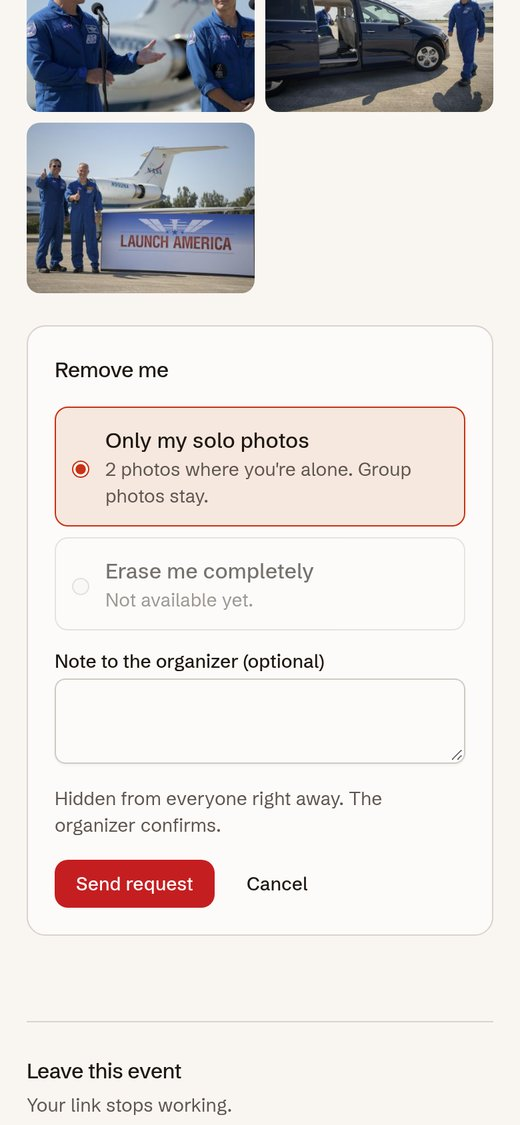
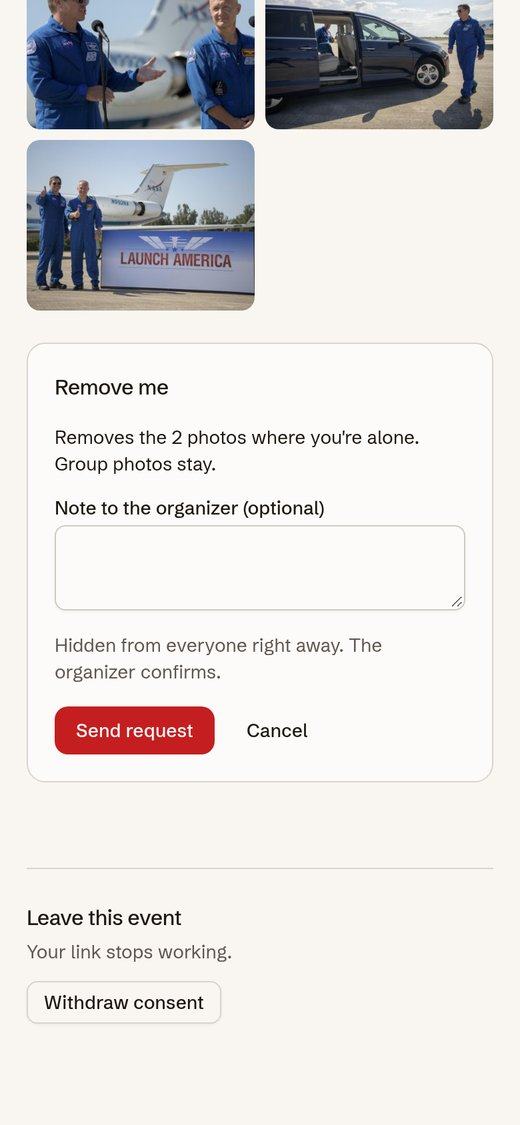
Update the docs for the 0.51 threshold

diff --git a/docs/MEASUREMENTS.md b/docs/MEASUREMENTS.md
@@ -31,9 +31,12 @@ Queries the API refuses (no face, or more than one face) count as misses.
 | Threshold (cosine distance) | Test precision | Test recall | Wrong photos | People not in the event who got any result |
 |---|---|---|---|---|
 | 0.50 | 1.0 | 0.8548 | 0 | 0 of 25 |
-| **0.55 (chosen)** | **0.9955** | **0.8871** | **1** | **0 of 25** |
+| **0.55 (picked here)** | **0.9955** | **0.8871** | **1** | **0 of 25** |
 | 0.60 | 0.9574 | 0.9073 | 10 | 2 of 25 |
 | 0.65 | 0.7643 | 0.9153 | 70 | 10 of 25 |
+
+The app now uses **0.51**, picked on the 11,251-photo scale test (see "Finding one person in the big event").
+On this test split precision is 1.0 at both 0.50 and 0.525, with recall 0.8548 and 0.879, so 0.51 lies between.
 
 On the tune split the same threshold gave precision 1.0 and recall 0.684. The tune split has more refused
 queries (15 against 7 on the test split, mostly selfies with a second face), which is most of the gap.
@@ -190,11 +193,11 @@ which is the check that it behaves like the app:
 |---|---|---|---|
 | 0.45 | 0.9855 | 0.6983 | 5 (1.8%) |
 | **0.50** | **0.9779** | **0.7552** | **8 (3.0%)** |
-| 0.55 (current) | 0.917 | 0.7838 | 48 (17.7%) |
+| 0.55 (used until the change to 0.51) | 0.917 | 0.7838 | 48 (17.7%) |
 | 0.60 | 0.6056 | 0.8021 | 186 (68.6%) |
 
 At this size 0.50 is the better setting: it gives up about 3 points of recall for 6 times fewer wrong strangers.
-The app still uses 0.55, the value tuned on the small event; changing it is a separate decision.
+The app now uses 0.51; the live numbers after the change are at the end of the next section.
 
 One limit showed up on the organizer side: the photo list returned only the newest 1,000 photos (a fixed
 `LIMIT` in `EventController`), so in an event this big the other 10,251 could not be browsed from the organizer
@@ -212,7 +215,7 @@ it: 143 people, 4,011 photos**. Each searched once on the hosted app with the sa
 20 of those selfies were refused because they show two faces; those people searched with their first event
 photo that has one face, and that photo is left out of their count.
 
-| At threshold 0.55, live | All 143 people | People with 10 to 15 photos (61) |
+| At threshold 0.55, live (first run) | All 143 people | People with 10 to 15 photos (61) |
 |---|---|---|
 | Photos found | 3,548 of 4,011 | 697 of 720 |
 | Median share of own photos found | 100% | 100% |
@@ -243,6 +246,26 @@ What the misses look like (checked by eye):
 copy gave 3,550 found and 124 wrong against the live 3,548 and 125): 3,428 found, 76 people with every photo,
 111 with 90% or more, 5 under 50%, and 47 wrong photos. So 0.50 removes about
 two thirds of the wrong photos, but 120 fewer own photos come back (the mean share per person drops from 96% to 92%).
+
+**After the change to 0.51** (`scale_person_051.json`, same 143 people and selfies, plus the 300 strangers, all
+live). 0.50 would have found only 92.9% of the photos of people with 10 to 15 photos (offline), below the 93%
+we wanted to keep; 0.51 was the lowest threshold in steps of 0.01 that kept it (offline 94.4%):
+
+| Live | 0.55 | 0.51 |
+|---|---|---|
+| Photos found, all 143 people | 3,548 of 4,011 | 3,461 of 4,011 |
+| Photos found, people with 10 to 15 photos | 697 of 720 (96.8%) | 680 of 720 (94.4%) |
+| People who got every photo | 103 | 84 |
+| People who got 90% or more | 129 | 119 |
+| Wrong photos returned to the 143 | 125 | 51 |
+| Strangers who got any photo | 48 of 272 (17.6%, `scale.json`) | 10 of 272 (3.7%) |
+| Photos shown to strangers | 70 | 11 |
+
+Search took 225 ms at p50 and 359 ms at p95 (419 searches). The offline copy at 0.51 gave
+3,463 found and 52 wrong, against the live 3,461 and 51. Over all 1,680 scale-test selfies the offline
+copy gives precision 0.9743 and recall 0.7643 at 0.51 (0.917 and 0.7838 at 0.55); that full run was not
+repeated live. The threshold was picked on the same people it is measured on, so these numbers are a little
+optimistic.
 
 ## Removing a person from a group photo (`erase_test.json`)
 
@@ -298,7 +321,8 @@ scripts/fetch-demo-photos.sh && python3 eval/hosted_check.py   # hosted.json
 python3 eval/scale_test.py prepare && python3 eval/scale_test.py upload
 python3 eval/scale_test.py search && python3 eval/scale_test.py summary   # scale.json
 python3 eval/scale_sweep.py                                               # scale_sweep.json
-python3 eval/scale_person.py                                              # scale_person.json
+python3 eval/scale_person.py                                              # scale_person.json (app at 0.55)
+python3 eval/scale_person.py 0.51                                         # scale_person_051.json (app at 0.51)
 # person removal test (needs onnxruntime and the models listed in erase_test.json)
 python3 eval/erase_test.py --models M --photos P --out O --plan plan.json  # per-photo times, summed into erase_test.json
 ```

diff --git a/docs/DECISIONS.md b/docs/DECISIONS.md
@@ -12,7 +12,7 @@ evidence would make it worth revisiting. Numbers come from the files in `eval/ou
 4. [A job queue in a Postgres table](#4-a-job-queue-in-a-postgres-table)
 5. [Leases, claim tokens and a deletion epoch](#5-leases-claim-tokens-and-a-deletion-epoch)
 6. [OpenCV YuNet and SFace for faces](#6-opencv-yunet-and-sface-for-faces)
-7. [A match threshold of 0.55, and no "maybe" tier](#7-a-match-threshold-of-055-and-no-maybe-tier)
+7. [A match threshold of 0.51, and no "maybe" tier](#7-a-match-threshold-of-051-and-no-maybe-tier)
 8. [The selfie is never stored](#8-the-selfie-is-never-stored)
 9. [A personal invite link per guest](#9-a-personal-invite-link-per-guest)
 10. [Versioned notice and consent](#10-versioned-notice-and-consent)
@@ -127,17 +127,21 @@ evidence would make it worth revisiting. Numbers come from the files in `eval/ou
   GPU becoming available. The `model_version` column on every face row allows a re-index with a new model
   side by side.
 
-## 7. A match threshold of 0.55, and no "maybe" tier
+## 7. A match threshold of 0.51, and no "maybe" tier
 
-- **Choice:** a photo is a match when one of its faces is within cosine distance 0.55 of the selfie.
-- **Why:** the threshold was picked on the tune half of an LFW evaluation event and then checked once on the
-  held-out test half (`eval/out/accuracy.json`). On the test half at 0.55: precision 0.9955 (220 correct
-  photos, 1 wrong), recall 0.8871, and none of the 25 people who were not in the event got any result.
-  A wrong match shows someone a private photo of a stranger, so precision is weighted above recall.
-- **Alternative considered and rejected:** a second "possible match" section for distances 0.55 to 0.60.
+- **Choice:** a photo is a match when one of its faces is within cosine distance 0.51 of the selfie.
+- **Why:** 0.55 was first picked on the tune half of a 438-photo LFW event and checked on the held-out test
+  half (`eval/out/accuracy.json`: precision 0.9955, recall 0.8871, none of 25 absent people matched). In the
+  11,251-photo scale test it let 17.6% of strangers see someone else's photo, because a big event has many
+  more look-alikes. At 0.51 that drops to 3.7% live, while people with 10 to 15 photos still get 94.4% of
+  them (`scale_person_051.json`). A wrong match shows someone a private photo of a stranger, so precision
+  is weighted above recall.
+- **Alternative considered and rejected:** 0.50, which found under 93% of the photos of people with 10 to 15
+  photos. A second "possible match" section for distances 0.55 to 0.60.
   On the test half that band adds 5 correct photos and 9 wrong ones, so most of what it shows is wrong.
-- **Tradeoff:** about one in nine of a guest's photos is not found (recall 0.8871 on the test half, lower on
-  real photos with harder poses). The guest can search again with a better selfie.
+- **Tradeoff:** some of a guest's photos are not found (in the scale test, 3,461 of 4,011 photos of the
+  143 people with 10 or more came back). A clear front-facing selfie finds the most; the guest can search
+  again with a better one.
 - **What would change it:** measurements on consented real event photos. LFW composites are cleaner than
   real crowds, so the numbers are an upper bound.
 

diff --git a/README.md b/README.md
@@ -102,7 +102,8 @@ Every number below comes from a JSON file in [`eval/out/`](eval/out); how each w
 
 | What | Result |
 |---|---|
-| Accuracy at threshold 0.55 (test split) | precision 0.9955, recall 0.8871; 0 of 25 people not in the event got a result |
+| Match threshold 0.51, live on an 11,251-photo event | people with 10 to 15 photos: 680 of their 720 photos found; strangers who got any photo: 10 of 272 (17.6% at the old 0.55) |
+| Accuracy at threshold 0.55 (small event, test split) | precision 0.9955, recall 0.8871; 0 of 25 people not in the event got a result |
 | Search latency (development machine, 174 searches) | p50 59.2 ms, p95 79.7 ms |
 | Indexing throughput (2 worker threads x 2 OpenCV threads) | 582.4 photos per minute |
 | Worker killed mid-batch | 438 of 438 photos ready, 0 duplicate faces, queue drained 60.4 s after restart |
@@ -197,7 +198,7 @@ scripts/        model and demo photo downloads
 | Photos indexed and searchable | One private link per guest | Reviewing a removal request |
 | <img src="docs/images/screens/guest-notice.jpg" width="220" alt="Guest notice"> | <img src="docs/images/screens/guest-results.jpg" width="220" alt="Guest results"> | <img src="docs/images/screens/guest-viewer.jpg" width="220" alt="Photo viewer"> |
 | The notice a guest agrees to | Photos the guest is probably in | Full-screen viewer |
-| <img src="docs/images/screens/guest-remove.jpg" width="220" alt="Choosing what to remove"> | <img src="docs/images/screens/guest-selfie.jpg" width="220" alt="Demo sample selfies"> | <img src="docs/images/screens/home.jpg" width="220" alt="Home page"> |
+| <img src="docs/images/screens/guest-remove.jpg" width="220" alt="Asking to be removed from solo photos"> | <img src="docs/images/screens/guest-selfie.jpg" width="220" alt="Demo sample selfies"> | <img src="docs/images/screens/home.jpg" width="220" alt="Home page"> |
 | Choosing what to remove | Sample selfies in the demo | Home page |
 | <img src="docs/images/screens/guest-notify.jpg" width="220" alt="Turning on new-photo alerts"> | <img src="docs/images/screens/guest-alerts.jpg" width="220" alt="New photos on the private alert link"> | |
 | Opting in to new-photo alerts | The private link with new photos | |

diff --git a/docs/ARCHITECTURE.md b/docs/ARCHITECTURE.md
@@ -99,7 +99,7 @@ other files of [`db/migration`](../backend/src/main/resources/db/migration).
 4. The selfie is decoded in memory and must contain exactly one clear face: none is refused, and a second face
    at least a quarter of the size of the largest is refused too, so the app never guesses whose photos to show.
 5. One SQL query compares the vector with every face in that event using pgvector's cosine distance operator
-   `<=>`, keeps photos whose closest face is within 0.55, and leaves out hidden, suppressed and
+   `<=>`, keeps photos whose closest face is within 0.51 (decision 7), and leaves out hidden, suppressed and
    reported-by-this-guest photos.
 6. The response lists photo ids with signed thumbnail and download links valid for 10 minutes, a flag when
    some photos are still being indexed, and a `Server-Timing` header with the decode, face and SQL times.
@@ -172,6 +172,7 @@ Details and method: [MEASUREMENTS.md](MEASUREMENTS.md).
 | What | Result | Source |
 |---|---|---|
 | Accuracy on the LFW test split at 0.55 | precision 0.9955, recall 0.8871, 0 of 25 absent people matched | `accuracy.json` |
+| Threshold 0.51, 11,251-photo event, live | 680 of 720 photos found for people with 10 to 15 photos; 10 of 272 strangers got a photo | `scale_person_051.json` |
 | Search latency, development machine | p50 59.2 ms, p95 79.7 ms (face step p50 30.1 ms, SQL p50 16.9 ms) | `latency.json` |
 | Indexing throughput, 2 x 2 threads | 582.4 photos per minute (438 photos, 807 faces) | `indexing.json` |
 | Crash in the middle of a batch | 438 of 438 photos ready, 0 duplicate faces, drained 60.4 s after restart | `indexing.json` |
